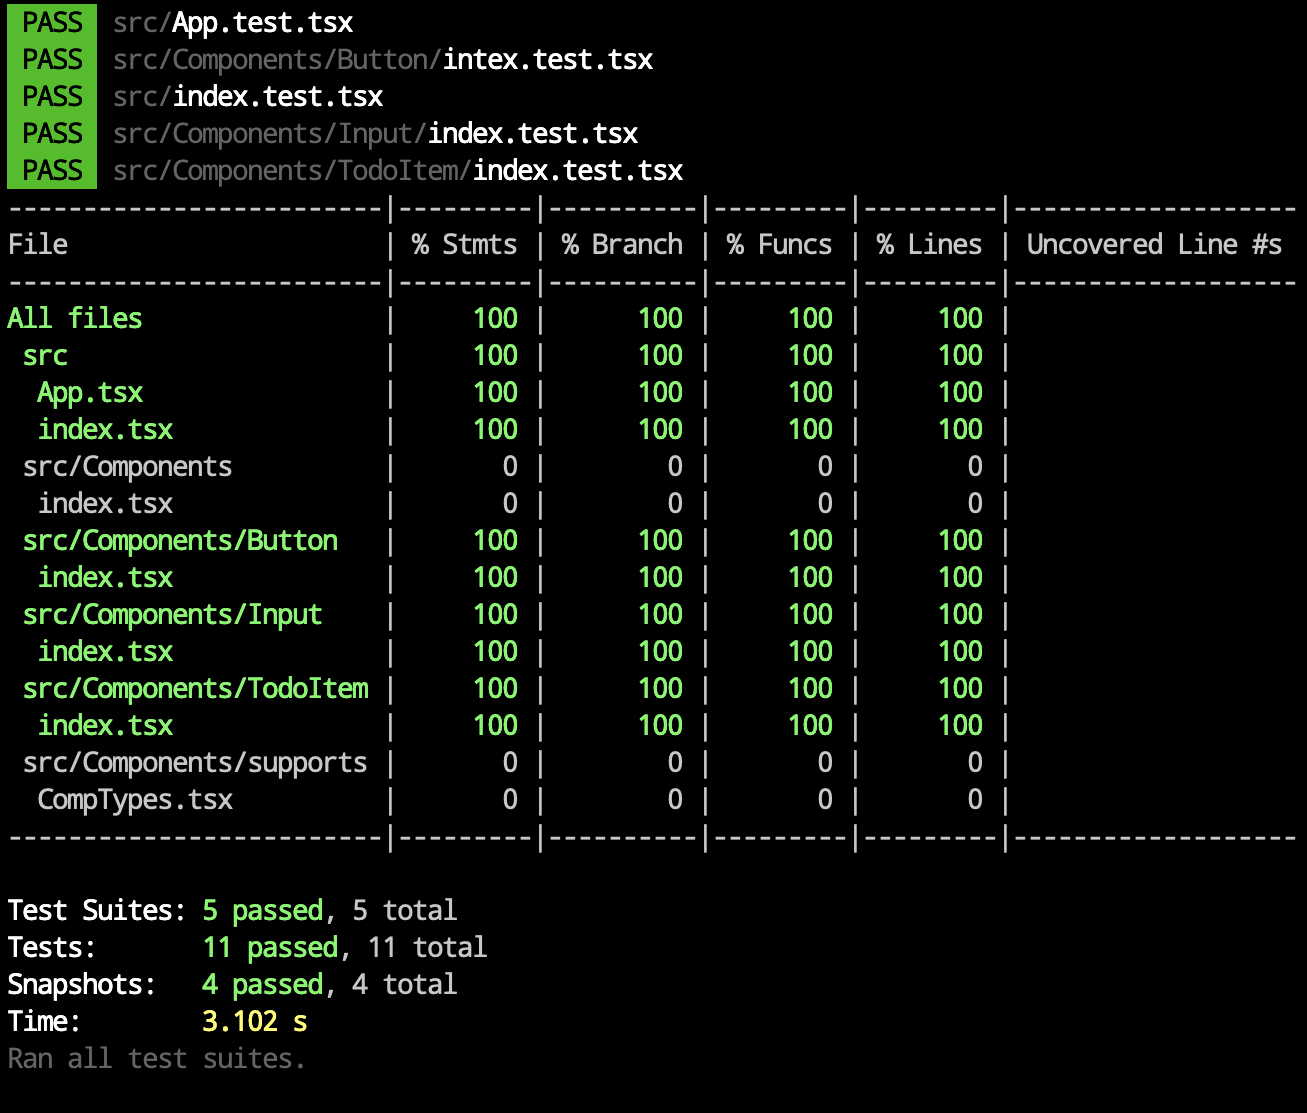
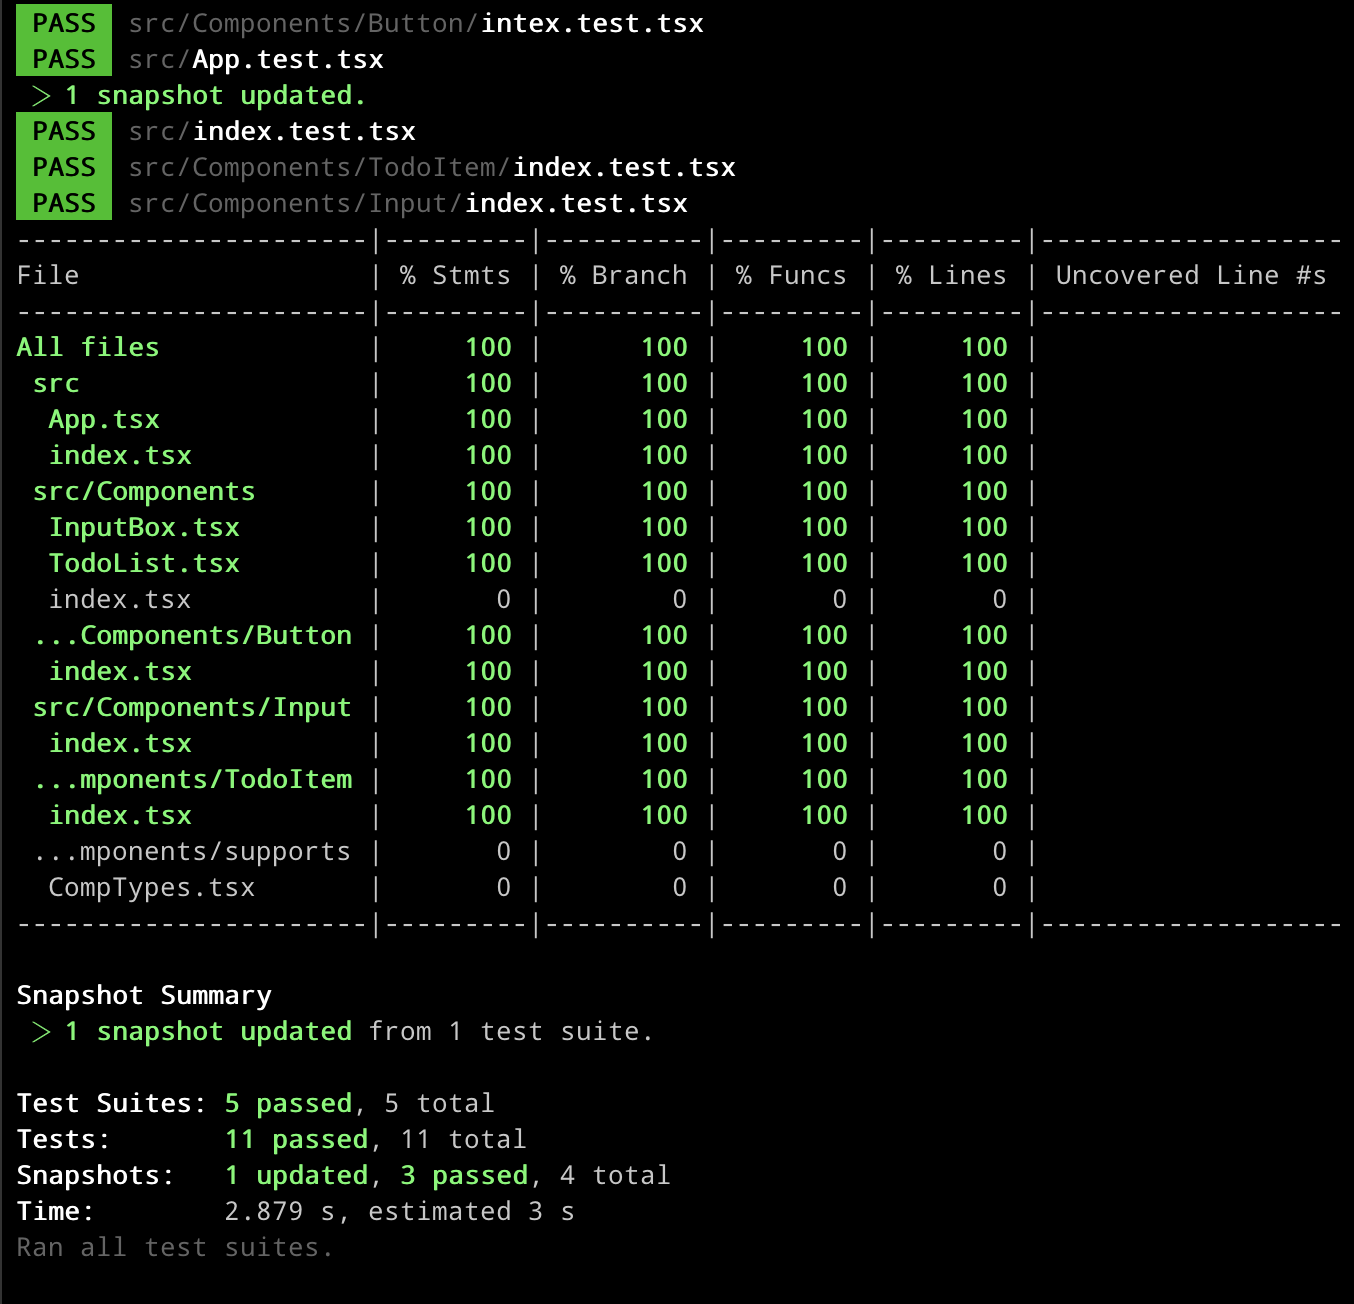
todo-list/context: refactor with mixed components

diff --git a/hands-on-todo-list-context/src/App.tsx b/hands-on-todo-list-context/src/App.tsx
@@ -1,7 +1,7 @@
 import React, { useState } from 'react';
 import Styled from 'styled-components';
 
-import { Button, Input, TodoItem } from 'Components';
+import { TodoList, InputBox } from 'Components';
 
 //- Sytled Component
 const Container = Styled.div`
@@ -16,23 +16,12 @@ const Contents = Styled.div`
   display: flex;
   flex-direction: column;
   align-items: center;
+  width: 50%;
+  margin: 0% 25%;
   padding: 20px;
   border-radius: 8px;
   background-color: : #FFFFFF;
   box-shadow: 5px 5px 10px rgba(0, 0, 0, 0.2);
-`;
-
-const TodoItemListContainer = Styled.div`
-  min-width: 350px;
-  height: 400px;
-  overflow: scroll;
-  border: 1px solid #BDBDBD;
-  border-radius: 8px;
-  margin-bottom: 20px;
-`;
-
-const InputContainer = Styled.div`
-  display: flex;
 `;
 
 //- React Component
@@ -58,15 +47,8 @@ function App() {
   return (
     <Container>
       <Contents>
-        <TodoItemListContainer data-testid="todoList">
-          {todoList.map((toDoLabel, index) => (
-            <TodoItem key={index} label={toDoLabel} onDelete={() => deleteTodo(index)} />
-          ))}
-        </TodoItemListContainer>
-        <InputContainer>
-          <Input placeholder="Insert a new todo" value={todo} onChange={(inputText) => setTodo(inputText)} />
-          <Button label="Add" onClick={addTodo} />
-        </InputContainer>
+        <TodoList todoList={todoList} deleteTodo={deleteTodo} />
+        <InputBox todo={todo} onType={(inputText) => setTodo(inputText)} onAdd={addTodo} />
       </Contents>
     </Container>
   );

diff --git a/hands-on-todo-list-context/src/Components/TodoList.tsx b/hands-on-todo-list-context/src/Components/TodoList.tsx
@@ -1,0 +1,31 @@
+import React from 'react';
+import Styled from 'styled-components';
+
+import { TodoItem } from 'Components';
+
+//- Sytled Component
+const Container = Styled.div`
+  width: 100%;
+  min-width: 350px;
+  min-height: 400px;
+  overflow: scroll;
+  border: 1px solid #BDBDBD;
+  border-radius: 8px;
+  margin-bottom: 20px;
+`;
+
+//- React Component
+interface Props {
+  readonly todoList: string[];
+  readonly deleteTodo: (index: number) => void;
+}
+
+export const TodoList = ({ todoList, deleteTodo }: Props) => {
+  return (
+    <Container data-testid="todoList">
+      {todoList.map((toDoLabel, index) => (
+        <TodoItem key={index} label={toDoLabel} onDelete={() => deleteTodo(index)} />
+      ))}
+    </Container>
+  );
+};

diff --git a/hands-on-todo-list-context/src/Components/InputBox.tsx b/hands-on-todo-list-context/src/Components/InputBox.tsx
@@ -1,0 +1,26 @@
+import React from 'react';
+import Styled from 'styled-components';
+
+import { Button } from 'Components/Button';
+import { Input } from 'Components/Input';
+
+//- Sytled Component
+const Container = Styled.div`
+  display: flex;
+`;
+
+//- React Component
+interface Props {
+  readonly todo?: string;
+  readonly onType?: (text: string) => void;
+  readonly onAdd?: () => void;
+}
+
+export const InputBox = ({ todo, onType, onAdd }: Props) => {
+  return (
+    <Container>
+      <Input placeholder="Insert a new todo" value={todo} onChange={onType} />
+      <Button label="Add" onClick={onAdd} />
+    </Container>
+  );
+};

diff --git a/hands-on-todo-list-context/src/Components/index.tsx b/hands-on-todo-list-context/src/Components/index.tsx
@@ -1,3 +1,8 @@
+// Basic components
 export * from './Button';
 export * from './Input';
 export * from './TodoItem';
+
+// Mixed components
+export * from './InputBox';
+export * from './TodoList';

diff --git a/hands-on-todo-list-context/README.md b/hands-on-todo-list-context/README.md
@@ -1,5 +1,12 @@
 # Hands on :: ToDo List (Context API)
 
+## Purpose
+
+To manage multiple states and props of many components which are separated in different parent components,
+we can use `pub-sub` pattern like `Flux`. At that point, we need to understand the topic of `Context API`. So, this project is simple use case of the `Context API`.
+
+> _Check points: how to handle the context and test it._
+
 ## How to use
 
 ```bash
